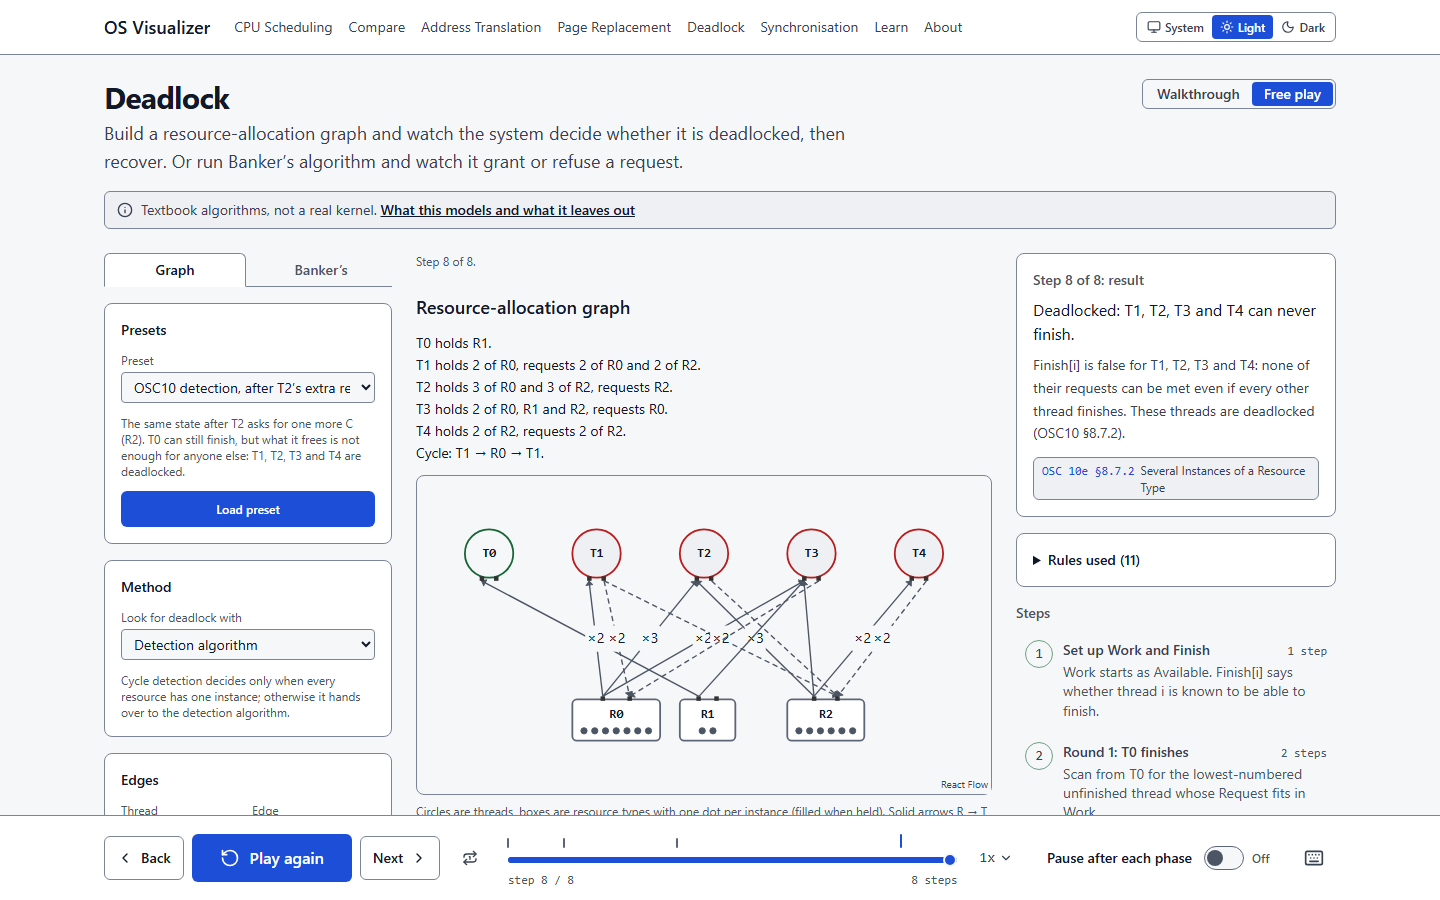
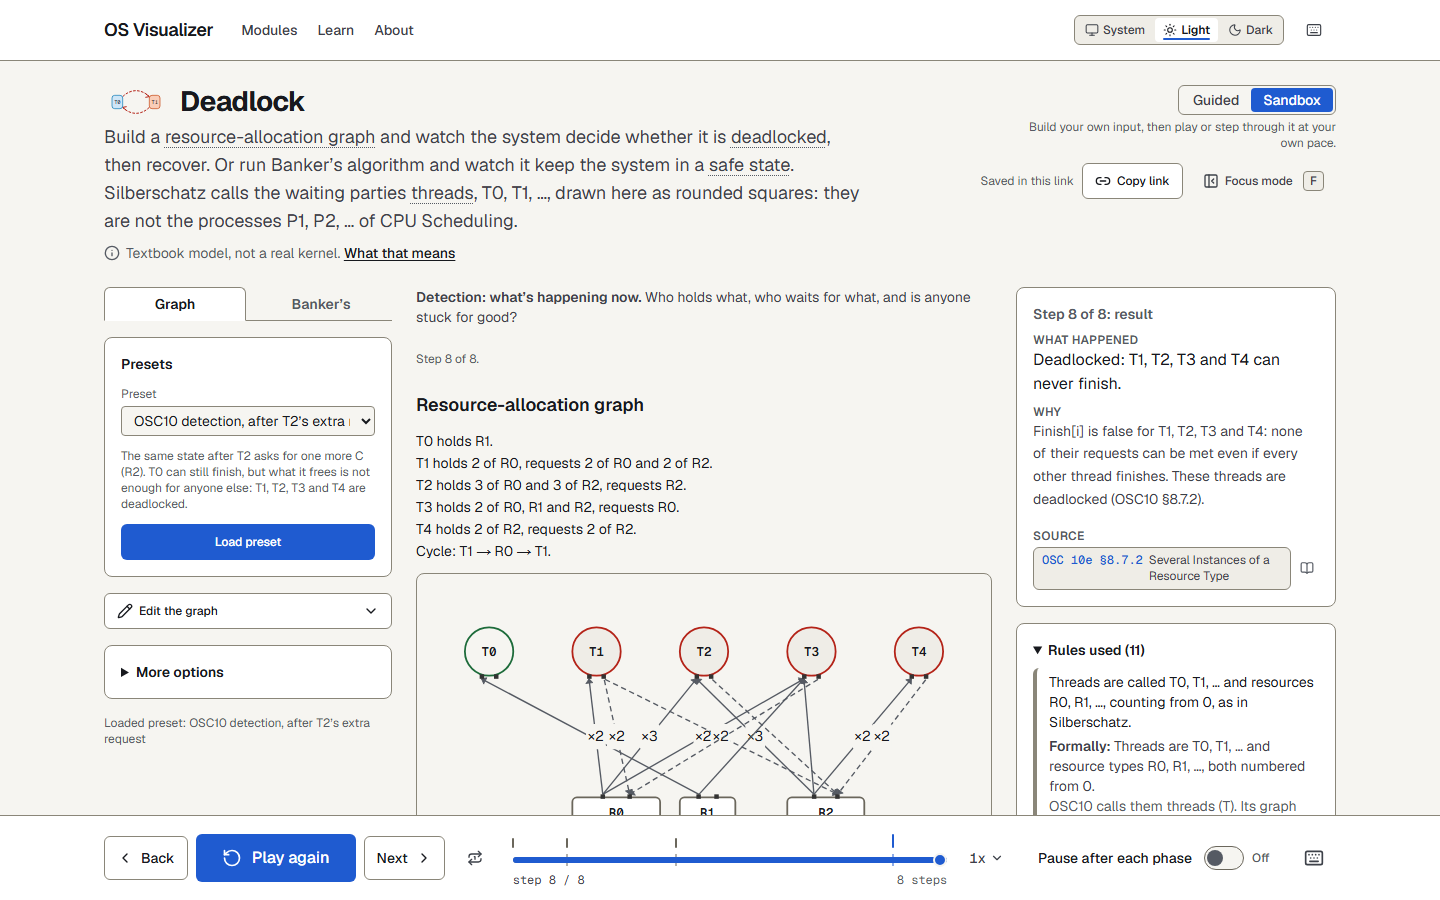
docs: U5.2 beginner re-test, README and close the UI/UX plan
A fresh Guided walk through every module in the suggested order, written
up as docs/UIUX.md §10.1; the plan's status is now [done].

Fixed:
- lesson: the example bar says when the picture shows a different input
- replacement, deadlock: <Term> text in lowercase mid-sentence instead of
  the capitalised glossary headword
- deadlock: the tab intro no longer shows twice on desktop
- scripts/screenshots.mjs: switch to "Sandbox" (was "Free play")
- README: Guided / Sandbox, glossary, corrected alt text; screenshots
  retaken from the new design (B13)

Follow-ups (§10.6): auto-load part 1's example, bring the picture into
view on Play in Guided, preset dropdown during a lesson example, the two
counters in Page Replacement.

diff --git a/src/modules/deadlock/DeadlockView.tsx b/src/modules/deadlock/DeadlockView.tsx
@@ -386,7 +386,8 @@ export function DeadlockView() {
             if (v !== view) setInput({ view: v });
           }}
         />
-        <p className="text-caption text-fg-secondary">{VIEW_INTROS[view]}</p>
+        {/* Desktop shows the same line above the picture, beside this column. */}
+        <p className="text-caption text-fg-secondary lg:hidden">{VIEW_INTROS[view]}</p>
       </div>
       {view === 'graph' ? graphInputs : bankersInputs}
       {statusLine}
@@ -523,9 +524,10 @@ export function DeadlockView() {
         title="Deadlock"
         intro={
           <>
-            Build a <Term id="resource-allocation-graph" /> and watch the system decide
-            whether it is <Term id="deadlock">deadlocked</Term>, then recover. Or run
-            Banker’s algorithm and watch it keep the system in a <Term id="safe-state" />.{' '}
+            Build a <Term id="resource-allocation-graph">resource-allocation graph</Term>{' '}
+            and watch the system decide whether it is{' '}
+            <Term id="deadlock">deadlocked</Term>, then recover. Or run Banker’s algorithm
+            and watch it keep the system in a <Term id="safe-state">safe state</Term>.{' '}
             <span data-testid="thread-names">
               Silberschatz calls the waiting parties <Term id="thread">threads</Term>, T0,
               T1, …, drawn here as rounded squares: they are not the processes P1, P2, …

diff --git a/src/modules/replacement/ReplacementView.tsx b/src/modules/replacement/ReplacementView.tsx
@@ -260,9 +260,10 @@ export function ReplacementView() {
         title="Page Replacement"
         intro={
           <>
-            Serve a <Term id="reference-string" /> with a few{' '}
+            Serve a <Term id="reference-string">reference string</Term> with a few{' '}
             <Term id="frame">frames</Term> of memory under FIFO, LRU, OPT or Clock, one
-            reference at a time, with the reason for every <Term id="victim" /> chosen.
+            reference at a time, with the reason for every <Term id="victim">victim</Term>{' '}
+            chosen.
           </>
         }
         mode={mode}
@@ -367,8 +368,8 @@ export function ReplacementView() {
               {policy === 'clock' && event ? (
                 <div className="flex flex-col gap-1">
                   <p className="text-small">
-                    Each frame has a <Term id="use-bit" />. The hand sweeps round the ring
-                    looking for a 0.
+                    Each frame has a <Term id="use-bit">use bit</Term>. The hand sweeps
+                    round the ring looking for a 0.
                   </p>
                   <ClockRing state={event.state} focus={event.frame} />
                 </div>

diff --git a/src/components/lesson/LessonStep.tsx b/src/components/lesson/LessonStep.tsx
@@ -67,6 +67,11 @@ export function ExampleBar({ id }: { id: string }) {
         <span className="text-fg font-medium">{example.title}</span>
         {loaded ? <span className="text-fg-muted"> (loaded)</span> : null}
       </p>
+      {loaded ? null : (
+        <p className="text-caption text-fg-secondary basis-full sm:order-last">
+          The picture shows a different input. Load this example to follow along.
+        </p>
+      )}
       <Button
         variant={loaded ? 'secondary' : 'primary'}
         size="sm"

diff --git a/src/modules/deadlock/DetectView.tsx b/src/modules/deadlock/DetectView.tsx
@@ -25,7 +25,8 @@ export function DetectView({
       <p className="text-caption text-fg-muted">
         {cycle ? (
           <>
-            Cycle detection on the <Term id="wait-for-graph" /> (OSC10 §8.7.1).
+            Cycle detection on the <Term id="wait-for-graph">wait-for graph</Term> (OSC10
+            §8.7.1).
           </>
         ) : state.algorithm === 'recover' ? (
           'Recovery (OSC10 §8.8): the graph after the action, before detection runs again.'

diff --git a/docs/UIUX.md b/docs/UIUX.md
@@ -1,7 +1,7 @@
 # OS Visualizer — UI/UX and motion plan
 
 Written: 2026-10-03 · Revised: 2026-10-05 (retrofit, see below)
-Status: **[planned]**
+Status: **[done]** 2026-10-15 (U5.1 and U5.2; results in §10)
 Applies to: every route in `src/app`, every shared component in `src/components`, every
 module in `src/modules`. Core (`src/core`) is not touched by this plan, with two
 exceptions: the home page hero reads one scheduling run from it at build time (§7.1),
@@ -862,7 +862,29 @@ horizontal page scroll anywhere, and no console errors apart from the 404 status
 | Reduced motion: a forward step leaves nothing animating | `scheduling-ux`, `compare-ux`, `translation`, `replacement`, `deadlock-ux` and `sync` specs |
 | No horizontal scroll at 375/390 px | `shell.spec.ts` › phone, plus the U5.1 walk |
 
-### 10.1 §2 items
+### 10.1 Second pass (U5.2)
+
+A fresh beginner walk at 1366×850 with a clean `localStorage`: `/`, then "Start with CPU
+scheduling", then every module in the suggested order, in Guided mode. Each lesson part
+was read with its example loaded and played to the end, along with the end-of-run card
+and its next-module link. Every module opened in Guided on the first visit, the
+checkpoints held the timeline ("Paused for this question"), and every end-of-run card
+named the result and offered "Try this next" and the next module.
+
+| # | Where | Pain point | Status |
+|---|---|---|---|
+| Q1 | Every module, Guided, first open | Part 1's text describes its own example (scheduling: "P1 arrives at t = 0 needing 16 ticks", FCFS), but the picture shows the module's default preset (SJF on 6, 8, 7, 3) until "Load this example" is pressed. Text and picture disagree on the very first screen. | **Partly fixed:** the example bar now says "The picture shows a different input. Load this example to follow along." whenever the part's example isn't loaded (`LessonStep.tsx`). Loading part 1's example automatically is a follow-up: the lesson tests pin down today's behaviour (nothing loads or holds until the learner acts), so it is a design change, not a QA fix. |
+| Q2 | Guided, desktop | The lesson column sits above the picture, so at 850 px tall the Gantt chart, frames or graph are below the fold. Pressing Play visibly changes only the inspector. "Try it" and checkpoint buttons scroll the picture into view; Play doesn't. | Follow-up (scroll the picture into view on the first Play in Guided, or put the lesson beside the picture). |
+| Q3 | Page Replacement and Deadlock intros, Clock note, wait-for graph caption | Self-closing `<Term id>` rendered the glossary headword mid-sentence: "Serve a Reference string… every Victim chosen", "a Resource-allocation graph", "a Safe state", "a Use bit", "the Wait-for graph". | **Fixed:** lowercase text inside each `<Term>`. |
+| Q4 | Deadlock, desktop | The tab's one-line intro ("Detection: what's happening now…") showed twice: under the tabs and above the picture. | **Fixed:** the copy under the tabs is hidden at `lg`, where both columns are visible. It stays on phone and tablet, where Setup is a separate tab or drawer. |
+| Q5 | Compare, Page Replacement, Guided | After "Load this example", the Presets dropdown still names a different preset (Compare: "FCFS vs SJF vs SRTF (convoy)" while the lesson's "SJF vs RR" is loaded). The status line under it is right. | Follow-up (show "Lesson example" in the dropdown while one is loaded). |
+| Q6 | Page Replacement | The inspector counts references ("Reference 6 of 11") and the transport counts steps ("step 9 / 20"). Both are right, but a beginner sees two different counters. | Follow-up (name the unit in the inspector: "reference 6 of 11 · step 9"). |
+| Q7 | `scripts/screenshots.mjs` | Still clicked the "Free play" radio, which U2.1 renamed "Sandbox", so the README screenshots couldn't be retaken. | **Fixed.** |
+| Q8 | `README.md` | Named the modes "Walkthrough" and "Free play". The Sync screenshot's alt text promised the interleaving histogram, which is below the fold. | **Fixed:** "Guided" and "Sandbox", with the glossary mentioned; alt text corrected. Every other claim checked against the site (presets, files, scripts, test coverage). |
+
+README screenshots retaken from the new build (B13, fixed): `docs/media/{home,scheduling,translation,replacement,deadlock,sync}.png`.
+
+### 10.2 §2 items
 
 | # | Status | Evidence |
 |---|---|---|
@@ -925,7 +947,7 @@ horizontal page scroll anywhere, and no console errors apart from the 404 status
 | A2 | done | `shell.spec.ts` › 404 lists modules and `/learn` |
 | A3 | done | `a11y.spec.ts` › `/demo` noindex; `shell.spec.ts` › not linked |
 
-### 10.2 §3 bugs
+### 10.3 §3 bugs
 
 | # | Status | Evidence |
 |---|---|---|
@@ -937,9 +959,9 @@ horizontal page scroll anywhere, and no console errors apart from the 404 status
 | B10 | fixed | Heading-only links stretched over the card (`ModuleGrid.tsx`) |
 | B11 | fixed | `workspace.spec.ts` › transport hides while a field has focus |
 | B12 | not done | Optional dev-only nicety; production is unaffected. |
-| B13 | open → U5.2 | README screenshots |
+| B13 | fixed | Retaken in U5.2 (§10.1) |
 
-### 10.3 §7 animations
+### 10.4 §7 animations
 
 | Where | Status | Notes |
 |---|---|---|
@@ -961,7 +983,7 @@ horizontal page scroll anywhere, and no console errors apart from the 404 status
 | 7.2.6 PC arrow, blocked pulse, ticker values, lost-update strike, lock owner FLIP, histogram bars | done | `sync.spec.ts` |
 | 7.3 Checkpoint cards, "Try it" scrolls into view | done | `learn.spec.ts` › checkpoint by keyboard |
 
-### 10.4 First-load JS
+### 10.5 First-load JS
 
 From `npm run perf:bundles` (gzipped, every script and JS preload in the prerendered
 HTML, deduplicated):
@@ -987,9 +1009,10 @@ workspace split so that Sandbox-only and lesson code load on demand. That is a
 structural change, left as a follow-up. `/scheduling` has 1.2 KB of headroom under the
 250 KB repo budget, so the next feature there has to pay for itself.
 
-### 10.5 Follow-ups
+### 10.6 Follow-ups
 
-- Split the module workspace to get module routes toward 170 KB (§10.4).
+- Split the module workspace to get module routes toward 170 KB (§10.5).
+- Q1, Q2, Q5 and Q6 from the second pass (§10.1).
 - The VPN ghost copy (§7.2.3) and the header shrinking on scroll (§7.1).
 - The per-process table scrolls sideways at tablet width (1024 px).
 - On the deadlock graph, the two crossing cycle edges' "cycle" labels overlap in the middle

diff --git a/README.md b/README.md
@@ -15,17 +15,19 @@ Concepts_, 10th edition), not a real kernel, and the product says so on every pa
 | #   | Module                                         | What you step through                                                                                                                                           |
 | --- | ---------------------------------------------- | --------------------------------------------------------------------------------------------------------------------------------------------------------------- |
 | 1   | [CPU Scheduling](src/modules/scheduling)       | FCFS, SJF, SRTF, Priority (with aging), Round Robin and MLFQ, with I/O bursts and a context-switch cost. Waiting, turnaround and response time per process.    |
-| 2   | [Compare](src/modules/compare)                 | One workload under two to four policies on a shared time axis, with the best value in each metric marked and a generated "Why?" line.                           |
+| 2   | [Compare](src/modules/compare)                 | One workload under two to four policies on a shared time axis, with the best value in each metric marked (ties as ties) and a generated "Why?" headline.                           |
 | 3   | [Address Translation](src/modules/translation) | Virtual address → VPN and offset → TLB → one- or two-level page-table walk → protection → physical address, and a page-table size calculator.                   |
 | 4   | [Page Replacement](src/modules/replacement)    | FIFO, LRU, OPT and Clock over a reference string, the faults-against-frames curve for every policy, and Belady's anomaly.                                       |
 | 5   | [Deadlock](src/modules/deadlock)               | A resource-allocation graph, built with a form or by dragging; cycle detection, the detection algorithm, Banker's safety and request algorithms, and recovery. |
 | 6   | [Synchronisation](src/modules/sync)            | Threads as load/add/store micro-ops: pick the interleaving by hand and lose an update, fix it with a test-and-set mutex, then producer/consumer with semaphores. |
 
-Every module has a **Walkthrough** (a lesson with checkpoints that ask you to predict the
-next step, listed at `/learn`) and **Free play**. Every input is editable, every preset
-reproduces a textbook situation, and any run is a link (`?s=`).
+Every module has two modes. **Guided** is a short lesson with checkpoints that ask you to
+predict the next step; the lessons form a learning path at `/learn`. **Sandbox** is your
+own input. Every input is editable, every preset reproduces a textbook situation, and
+any run is a link (`?s=`). Words like _quantum_, _VPN_ or _safe state_ carry their
+definition on hover, focus or tap, and `/learn/glossary` lists them all.
 
-![Synchronisation: a lost update on a shared counter, and the count of every interleaving](docs/media/sync.png)
+![Synchronisation: two threads race on a shared counter and the lost update is struck through](docs/media/sync.png)
 
 <table>
   <tr>
